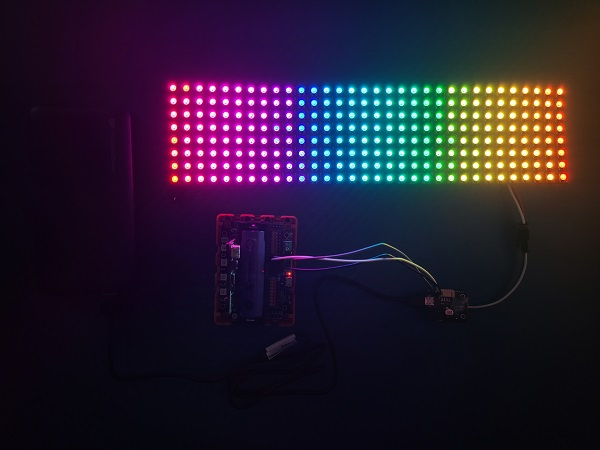
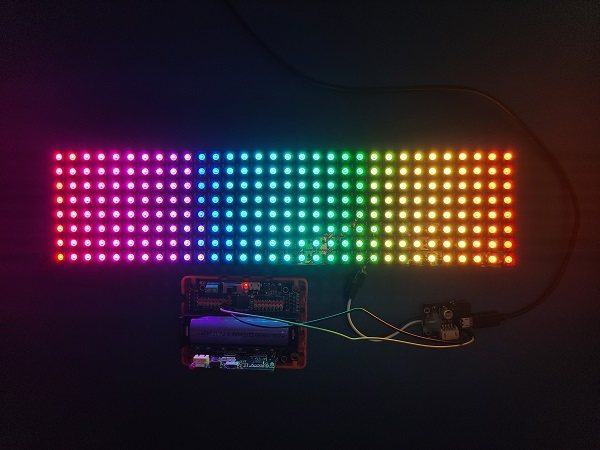
adding sb3

diff --git a/Kits/kittenblock10in1/powerBrickColorGesture.md b/Kits/kittenblock10in1/powerBrickColorGesture.md
@@ -68,17 +68,18 @@ HSV色環可以參考下圖：
 
 ![](./images/hsv.jpg)
 
+### 亮度檢測
+
+![](./images/colorbrightness.png)
+
+[參考程式下載](https://bit.ly/PowerbrickM7_02Hex)
+
 ### 距離檢測
 
 ![](./images/colordist.png)
 
 [參考程式下載](https://bit.ly/PowerbrickM7_03Hex)
 
-### 亮度檢測
-
-![](./images/colorbrightness.png)
-
-[參考程式下載](https://bit.ly/PowerbrickM7_02Hex)
 
 ### 手勢檢測
 
@@ -114,31 +115,31 @@ HSV色環可以參考下圖：
 
 ![](./kbimages/kbcolor.png)
 
-[參考程式下載](www.google.com)
+[參考程式下載](https://bit.ly/PowerbrickM7_01sb3)
 
 ### 亮度檢測
 
 ![](./kbimages/kbbrightness.png)
 
-[參考程式下載](www.google.com)
+[參考程式下載](https://bit.ly/PowerbrickM7_02sb3)
 
 ### 距離檢測
 
 ![](./kbimages/kbcolordist.png)
 
-[參考程式下載](www.google.com)
+[參考程式下載](https://bit.ly/PowerbrickM7_03sb3)
 
 ### 手勢檢測
 
 ![](./kbimages/kbgesture.png)
 
-[參考程式下載](www.google.com)
+[參考程式下載](https://bit.ly/PowerbrickM7_04sb3)
 
 ### LED控制
 
 ![](./kbimages/kbled.png)
 
-[參考程式下載](www.google.com)
+[參考程式下載](https://bit.ly/PowerbrickM7_05sb3)
 
 ## FAQ
 

diff --git a/accessories/LEDMatrix/LEDMatrixNeoMatrix2.md b/accessories/LEDMatrix/LEDMatrixNeoMatrix2.md
@@ -14,6 +14,16 @@
 
 ![](./LEDMatrixT3/adaptertorobotbit.png)
 
+### 3. 長時間使用請使用USB供電。
+
+USB供電時，不需要使用Robotbit供電，請將5V電源線拔走。
+
+![](./LEDMatrix/usb.jpg)
+
+### 4. 完整接線示範
+
+![](./LEDMatrix/usbpower.jpg)
+
 ## 編程教學（只限離線版makecode）
 
 假如我們想顯示文字或圖形，使用neopixel實在太麻煩了，有見及此kittenbot推出了neomatrix插件，容許圖像化的圖案編輯。
@@ -95,11 +105,12 @@ neomatrix積木塊:
 
 答：電源不足夠。
 
-解決方法：將robotbit的電源打開，或者在供電轉接板加插外部電源（支援USB或5V火牛）。
+解決方法：將robotbit的電源打開，或者在供電轉接板加插外部USB電源。
 
 ## 注意事項
 - 請勿接駁電壓高於5V的電源。
 - 長時間使用請接駁USB外部電源。
+- 要點亮大量LED的時候請將亮度減低。
 - 本產品只適合14歲以上的兒童獨立使用，8-14歲兒童請在成年人的陪同下使用。
 - 使用前請參考Kittenbot官方資料，不要隨便接駁電路，請勿外接大電流電機舵機。
 - 請勿在金屬表面或導電性物料上使用，以免短路。

diff --git a/accessories/LEDMatrix/LEDMatrixNeoMatrix1.md b/accessories/LEDMatrix/LEDMatrixNeoMatrix1.md
@@ -14,6 +14,16 @@
 
 ![](./LEDMatrixT3/adaptertorobotbit.png)
 
+### 3. 長時間使用請使用USB供電。
+
+USB供電時，不需要使用Robotbit供電，請將5V電源線拔走。
+
+![](./LEDMatrix/usb.jpg)
+
+### 4. 完整接線示範
+
+![](./LEDMatrix/usbpower.jpg)
+
 ## 編程教學（只限離線版makecode）
 
 假如我們想顯示文字或圖形，使用neopixel實在太麻煩了，有見及此kittenbot推出了neomatrix插件，容許圖像化的圖案編輯。
@@ -87,11 +97,12 @@ neomatrix積木塊:
 
 答：電源不足夠。
 
-解決方法：將robotbit的電源打開，或者在供電轉接板加插外部電源（支援USB或5V火牛）。
+解決方法：將robotbit的電源打開，或者在供電轉接板加插外部USB電源。
 
 ## 注意事項
 - 請勿接駁電壓高於5V的電源。
 - 長時間使用請接駁USB外部電源。
+- 要點亮大量LED的時候請將亮度減低。
 - 本產品只適合14歲以上的兒童獨立使用，8-14歲兒童請在成年人的陪同下使用。
 - 使用前請參考Kittenbot官方資料，不要隨便接駁電路，請勿外接大電流電機舵機。
 - 請勿在金屬表面或導電性物料上使用，以免短路。

diff --git a/accessories/LEDMatrix/LEDMatrixNeoPixel1.md b/accessories/LEDMatrix/LEDMatrixNeoPixel1.md
@@ -16,6 +16,16 @@
 
 ![](./LEDMatrixT3/adaptertorobotbit.png)
 
+### 3. 長時間使用請使用USB供電。
+
+於轉接板加插USB電源即可。不需要使用Robotbit供電，請將5V電源線拔走。
+
+![](./LEDMatrix/usb.jpg)
+
+### 4. 完整接線示範
+
+![](./LEDMatrix/usbpower.jpg)
+
 ### LED排位：
 
 由於彩屏是用蛇形路線將LED燈帶排列成長方形，每顆燈都可以獨立使用，LED排列請參考下圖。
@@ -70,6 +80,7 @@
 
     彩虹效果使用的是HSL格式（色相，飽和度，亮度）
     彩色的電流比較大，在高亮度的情況下需要外接USB電源。
+    流動充電器電流可能不夠，所以這裡外接了手機充電器。
     
 ![](./LEDMatrixT1/rainbow.jpg)
 
@@ -159,6 +170,7 @@
 ## 注意事項
 - 請勿接駁電壓高於5V的電源。
 - 長時間使用請接駁USB外部電源。
+- 要點亮大量LED的時候請將亮度減低。
 - 本產品只適合14歲以上的兒童獨立使用，8-14歲兒童請在成年人的陪同下使用。
 - 使用前請參考Kittenbot官方資料，不要隨便接駁電路，請勿外接大電流電機舵機。
 - 請勿在金屬表面或導電性物料上使用，以免短路。

diff --git a/accessories/LEDMatrix/LEDMatrixNeoMatrix3.md b/accessories/LEDMatrix/LEDMatrixNeoMatrix3.md
@@ -16,6 +16,16 @@
 
 ![](./LEDMatrixT3/adaptertorobotbit.png)
 
+### 3. 長時間使用請使用USB供電。
+
+USB供電時，不需要使用Robotbit供電，請將5V電源線拔走。
+
+![](./LEDMatrix/usb.jpg)
+
+### 4. 完整接線示範
+
+![](./LEDMatrix/usbpower.jpg)
+
 ## 流光溢彩屏進階編程
 
 1. 本節教程將會用到neopixel的插件，請將插件加載於makecode。
@@ -143,11 +153,12 @@
 
 答：電源不足夠。
 
-解決方法：將robotbit的電源打開，或者在供電轉接板加插外部電源（支援USB或5V火牛）。
+解決方法：將robotbit的電源打開，或者在供電轉接板加插外部USB電源。
 
 ## 注意事項
 - 請勿接駁電壓高於5V的電源。
 - 長時間使用請接駁USB外部電源。
+- 要點亮大量LED的時候請將亮度減低。
 - 本產品只適合14歲以上的兒童獨立使用，8-14歲兒童請在成年人的陪同下使用。
 - 使用前請參考Kittenbot官方資料，不要隨便接駁電路，請勿外接大電流電機舵機。
 - 請勿在金屬表面或導電性物料上使用，以免短路。

diff --git a/accessories/LEDMatrix/LEDMatrixT3.md b/accessories/LEDMatrix/LEDMatrixT3.md
@@ -85,8 +85,6 @@
 ![](./LEDMatrixT3/rotate.gif)
 
 [參考程式下載](https://bit.ly/LEDMatrixT3_05Hex)
-
-
     
 X和Y軸的方向可以參照下圖。
 
@@ -98,11 +96,12 @@ X和Y軸的方向可以參照下圖。
 
 答：電源不足夠。
 
-解決方法：將robotbit的電源打開，或者在供電轉接板加插外部電源（支援USB或5V火牛）。
+解決方法：將robotbit的電源打開，或者在供電轉接板加插外部USB電源。
 
 ## 注意事項
 - 請勿接駁電壓高於5V的電源。
 - 長時間使用請接駁USB外部電源。
+- 要點亮大量LED的時候請將亮度減低。
 - 本產品只適合14歲以上的兒童獨立使用，8-14歲兒童請在成年人的陪同下使用。
 - 使用前請參考Kittenbot官方資料，不要隨便接駁電路，請勿外接大電流電機舵機。
 - 請勿在金屬表面或導電性物料上使用，以免短路。

diff --git a/Kits/kittenblock10in1/powerBrickRFID.md b/Kits/kittenblock10in1/powerBrickRFID.md
@@ -96,19 +96,19 @@ RFID模組 (HKBM8012L) + RFID卡片 (HKBM8012M)
 
 ![](./kbimages/rfidwrite.png)
 
-[參考程式下載](www.google.com)
+[參考程式下載](https://bit.ly/PowerbrickM8_01sb3)
 
 ### RFID卡片讀取
 
 ![](./kbimages/rfidread.png)
 
-[參考程式下載](www.google.com)
+[參考程式下載](https://bit.ly/PowerbrickM8_02sb3)
 
 ### RFID讀取UUID
 
 ![](./kbimages/uidread.png)
 
-[參考程式下載](www.google.com)
+[參考程式下載](https://bit.ly/PowerbrickM8_03sb3)
 
 ### UUID身份辨別
 
@@ -116,7 +116,7 @@ RFID模組 (HKBM8012L) + RFID卡片 (HKBM8012M)
 
     這裡請使用您卡片的UUID。
     
-[參考程式下載](www.google.com)
+[參考程式下載](https://bit.ly/PowerbrickM8_04sb3)
 
 ## FAQ
 

diff --git a/accessories/LEDMatrix/LEDMatrixDaisyChain.md b/accessories/LEDMatrix/LEDMatrixDaisyChain.md
@@ -69,11 +69,12 @@
 
 答：電源不足夠。
 
-解決方法：將robotbit的電源打開，或者在供電轉接板加插外部電源（支援USB或5V火牛）。
+解決方法：將robotbit的電源打開，或者在供電轉接板加插外部USB電源）。
 
 ## 注意事項
 - 請勿接駁電壓高於5V的電源。
 - 長時間使用請接駁USB外部電源。
+- 要點亮大量LED的時候請將亮度減低。
 - 本產品只適合14歲以上的兒童獨立使用，8-14歲兒童請在成年人的陪同下使用。
 - 使用前請參考Kittenbot官方資料，不要隨便接駁電路，請勿外接大電流電機舵機。
 - 請勿在金屬表面或導電性物料上使用，以免短路。

diff --git a/accessories/LEDMatrix/LEDMatrix.md b/accessories/LEDMatrix/LEDMatrix.md
@@ -1,7 +1,6 @@
 # 流光溢彩屏介紹
 
-0832流光溢彩屏 (HKBM8008A)
-1616流光溢彩屏 (HKBM8009A)
+0832流光溢彩屏 (HKBM8008A) / 1616流光溢彩屏 (HKBM8009A)
 
 ## 產品簡介
 
@@ -14,7 +13,6 @@
 ## 產品特色
 
 - 圖像化介面編程
-- 支援單線多屏控制
 - 支援模組式串聯
 - 支援外部供電
 - 輕便小巧
@@ -56,7 +54,7 @@ __16x16柔性屏(HKBM8009A)__
 ## 技術參數 
 
 - 電壓：5V
-- 電流：1A、長時間使用建議使用USB 5V供電
+- 電流：1A、長時間使用建議使用USB供電
 - 功率: 0.3W
 - 材料：軟銅板
 - 亮度分級：256級

diff --git a/Kits/kittenblock10in1/powerBrickMP3.md b/Kits/kittenblock10in1/powerBrickMP3.md
@@ -84,13 +84,13 @@ MP3模組 (HKBM8012E)
 
 ![](./kbimages/mp3play.png)
 
-[參考程式下載](www.google.com)
+[參考程式下載](https://bit.ly/PowerbrickM10_01sb3)
 
 ### 指定序號播放音頻
 
 ![](./kbimages/mp3playbyid.png)
 
-[參考程式下載](www.google.com)
+[參考程式下載](https://bit.ly/PowerbrickM10_02sb3)
 
 ### 指定名稱播放音頻
 
@@ -98,7 +98,7 @@ MP3模組 (HKBM8012E)
 
     名稱只支援英文和數字，長度不能長於8位。
 
-[參考程式下載](www.google.com)
+[參考程式下載](https://bit.ly/PowerbrickM10_03sb3)
 
 ## FAQ
 

diff --git a/Kits/kittenblock10in1/powerBrickUltraSound.md b/Kits/kittenblock10in1/powerBrickUltraSound.md
@@ -76,13 +76,13 @@
 
 ![](./kbimages/kbultrasounddist.png)
 
-[參考程式下載](www.google.com)
+[參考程式下載](https://bit.ly/PowerbrickM4_01sb3)
 
 ### 環境聲音檢測編程
 
 ![](./kbimages/kbultrasoundlevel.png)
 
-[參考程式下載](www.google.com)
+[參考程式下載](https://bit.ly/PowerbrickM4_02sb3)
 
 ## FAQ
 

diff --git a/Kits/kittenblock10in1/powerBrickEnvironment.md b/Kits/kittenblock10in1/powerBrickEnvironment.md
@@ -71,13 +71,13 @@
 
 ![](./kbimages/kbtemp.png)
 
-[參考程式下載](www.google.com)
+[參考程式下載](https://bit.ly/PowerbrickM1_01sb3)
 
 ### 相對濕度測量編程
 
 ![](./kbimages/kbhumid.png)
 
-[參考程式下載](www.google.com)
+[參考程式下載](https://bit.ly/PowerbrickM1_02sb3)
 
 ## FAQ
 
